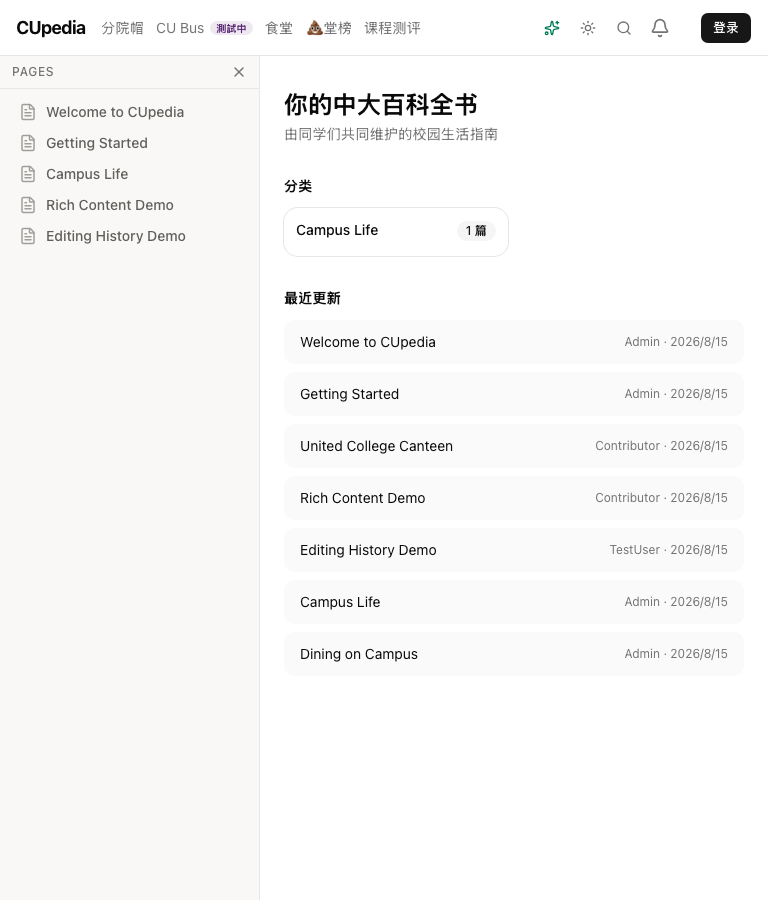
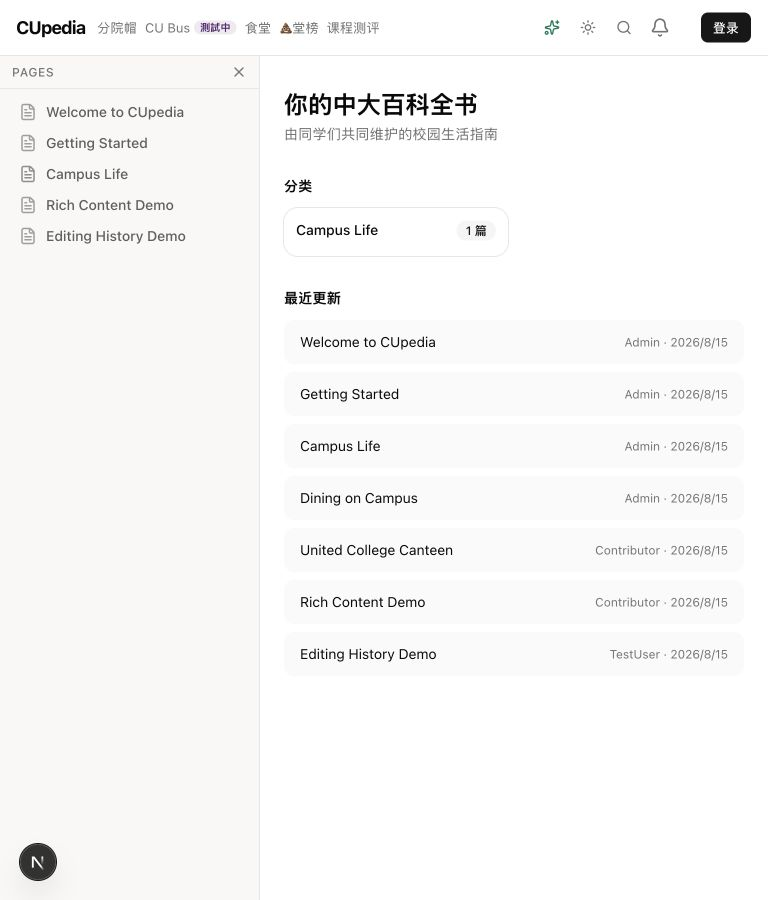
fix: refine Wiki navigation visual hierarchy

diff --git a/src/components/layout/wiki-sidebar.tsx b/src/components/layout/wiki-sidebar.tsx
@@ -451,7 +451,7 @@ function PageTreeItem({
           focusedEditor && active && "bg-[#eeeceb]",
         )}
         style={{
-          paddingLeft: `${(isMobile ? 2 : 10) + depth * 8}px`,
+          paddingLeft: `${(isMobile ? 2 : 10) + depth * (isMobile ? 12 : 8)}px`,
           paddingRight: "4px",
         }}
       >
@@ -476,26 +476,26 @@ function PageTreeItem({
                 ?.focus({ preventScroll: true });
               onToggle(node.id);
             }}
-            className="relative hidden size-5 shrink-0 items-center justify-center rounded-md text-[#a09e9a] transition-[background-color,transform] group-hover/row:bg-black/[0.045] active:scale-95 focus-visible:outline-none md:flex"
+            className="relative flex size-11 shrink-0 items-center justify-center rounded-md text-[#8f8d89] transition-[background-color,transform] hover:bg-black/[0.045] active:scale-95 focus-visible:outline-none md:size-5"
             aria-label={`${collapsed ? "展开" : "折叠"} ${displayTitle}`}
           >
             <PageIcon
               icon={node.icon}
-              className="group-hover/row:opacity-0 group-focus-visible/tree-item:opacity-0"
+              className="hidden group-hover/row:opacity-0 group-focus-visible/tree-item:opacity-0 md:block"
             />
             {collapsed ? (
               <ChevronRightIcon
                 data-testid="wiki-disclosure-icon"
                 aria-hidden="true"
                 strokeWidth={2.25}
-                className="absolute size-4 text-[#5f5e5a] opacity-0 group-hover/row:opacity-100 group-focus-visible/tree-item:opacity-100"
+                className="size-4 text-[#5f5e5a] md:absolute md:opacity-0 md:group-hover/row:opacity-100 md:group-focus-visible/tree-item:opacity-100"
               />
             ) : (
               <ChevronDownIcon
                 data-testid="wiki-disclosure-icon"
                 aria-hidden="true"
                 strokeWidth={2.25}
-                className="absolute size-4 text-[#5f5e5a] opacity-0 group-hover/row:opacity-100 group-focus-visible/tree-item:opacity-100"
+                className="size-4 text-[#5f5e5a] md:absolute md:opacity-0 md:group-hover/row:opacity-100 md:group-focus-visible/tree-item:opacity-100"
               />
             )}
           </button>
@@ -541,9 +541,10 @@ function PageTreeItem({
               "rounded-md px-2 py-0 text-sm normal-case tracking-normal",
             active &&
               cn(
-                "bg-[#eeeceb] font-semibold text-[#2c2c2b]",
+                "font-semibold text-[#2c2c2b]",
+                !isMobile && "bg-[#eeeceb]",
                 isMobile &&
-                  "dark:bg-[#39273f] dark:text-[#d3a5e4] dark:hover:text-[#d3a5e4]",
+                  "relative bg-[#5b2a73]/[0.08] before:absolute before:top-2 before:bottom-2 before:left-0 before:w-0.5 before:rounded-full before:bg-[#5b2a73] dark:bg-purple-300/10 dark:text-purple-100 dark:before:bg-purple-300 dark:hover:text-purple-100",
               ),
             showFeedback &&
               cn(
@@ -1465,7 +1466,16 @@ export function WikiSidebar({
                       <PlusIcon aria-hidden="true" className="size-4" />
                     </WikiCreateButton>
                   )}
-                  {wikiNavigationView === "wiki-tree" && (
+                  {wikiNavigationView === "product-switcher" ? (
+                    <button
+                      type="button"
+                      onClick={showWikiTree}
+                      className="flex size-11 shrink-0 touch-manipulation items-center justify-center rounded-md text-muted-foreground transition-[background-color,color,transform] hover:bg-[#eeeceb] hover:text-foreground active:scale-95 focus-visible:outline-none focus-visible:ring-3 focus-visible:ring-ring/50 dark:hover:bg-white/10"
+                      aria-label="关闭产品列表"
+                    >
+                      <XIcon aria-hidden="true" className="size-4" />
+                    </button>
+                  ) : (
                     <Drawer.Close
                       ref={mobileCloseRef}
                       className="flex size-11 shrink-0 touch-manipulation items-center justify-center rounded-md text-muted-foreground transition-[background-color,color,transform] hover:bg-[#eeeceb] hover:text-foreground active:scale-95 focus-visible:outline-none focus-visible:ring-3 focus-visible:ring-ring/50 dark:hover:bg-white/10"
@@ -1545,7 +1555,7 @@ export function WikiSidebar({
                   )}
                 </nav>
                 {wikiNavigationView === "wiki-tree" && (
-                  <div className="grid shrink-0 gap-1 border-t px-3 py-2">
+                  <div className="grid shrink-0 gap-1 border-t bg-white/45 px-3 py-2 dark:bg-white/[0.025]">
                     <button
                       type="button"
                       onClick={() => openSurface("search")}
@@ -1584,6 +1594,7 @@ export function WikiSidebar({
                     pendingHref={pendingHref}
                     feedbackHref={feedbackHref}
                     className="flex-1"
+                    variant="wiki"
                   />
                 )}
                 <MobilePageActionsSheet

diff --git a/src/components/layout/navbar.tsx b/src/components/layout/navbar.tsx
@@ -169,7 +169,12 @@ export function Navbar({
         data-testid="global-header"
         className="sticky top-0 z-30 h-[var(--navbar-height)] border-b bg-background/95 backdrop-blur-md supports-backdrop-filter:bg-background/85"
       >
-        <div className="grid h-full grid-cols-[minmax(0,1fr)_auto] items-center pt-[var(--safe-area-top)] pr-[calc(var(--safe-area-right)+0.5rem)] pl-[calc(var(--safe-area-left)+0.5rem)] md:flex md:gap-4 md:pr-[calc(var(--safe-area-right)+1rem)] md:pl-[calc(var(--safe-area-left)+1rem)]">
+        <div
+          className={cn(
+            "grid h-full grid-cols-[minmax(0,1fr)_auto] items-center pt-[var(--safe-area-top)] pr-[calc(var(--safe-area-right)+0.5rem)] pl-[calc(var(--safe-area-left)+0.5rem)] md:flex md:gap-4 md:pr-[calc(var(--safe-area-right)+1rem)] md:pl-[calc(var(--safe-area-left)+1rem)]",
+            wikiVariant && "md:gap-3 lg:gap-4",
+          )}
+        >
           <div className="flex min-w-0 items-center md:shrink-0">
             {leading}
             {wikiVariant ? (
@@ -199,7 +204,10 @@ export function Navbar({
           </div>
           <nav
             aria-label="产品导航"
-            className="hidden min-w-0 flex-1 items-center gap-3 md:flex"
+            className={cn(
+              "hidden min-w-0 flex-1 items-center gap-3 md:flex",
+              wikiVariant && "md:gap-2 lg:gap-3",
+            )}
           >
             {DESKTOP_PRODUCT_NAVIGATION.map((item) => (
               <Link
@@ -210,7 +218,11 @@ export function Navbar({
                     ? `${item.desktopLabel ?? item.label} · ${item.status}`
                     : undefined
                 }
-                className="flex min-h-8 shrink-0 touch-manipulation items-center gap-1.5 rounded-md text-sm text-muted-foreground transition-[background-color,color,transform] hover:text-foreground active:scale-[0.98] active:bg-accent active:text-foreground focus-visible:outline-none focus-visible:ring-3 focus-visible:ring-ring/50 motion-reduce:transition-none"
+                className={cn(
+                  "flex min-h-8 shrink-0 touch-manipulation items-center gap-1.5 rounded-md text-sm text-muted-foreground transition-[background-color,color,transform] hover:text-foreground active:scale-[0.98] active:bg-accent active:text-foreground focus-visible:outline-none focus-visible:ring-3 focus-visible:ring-ring/50 motion-reduce:transition-none",
+                  wikiVariant &&
+                    "md:gap-1 md:text-[13px] lg:gap-1.5 lg:text-sm",
+                )}
               >
                 <span aria-hidden={item.status ? "true" : undefined}>
                   {item.desktopLabel ?? item.label}

diff --git a/src/components/layout/product-navigation-links.tsx b/src/components/layout/product-navigation-links.tsx
@@ -17,6 +17,7 @@ export function ProductNavigationLinks({
   pendingHref = null,
   feedbackHref = null,
   className,
+  variant = "default",
 }: {
   pathname: string;
   onClick?: (event: MouseEvent<HTMLAnchorElement>, href: string) => void;
@@ -24,14 +25,17 @@ export function ProductNavigationLinks({
   pendingHref?: string | null;
   feedbackHref?: string | null;
   className?: string;
+  variant?: "default" | "wiki";
 }) {
   const activeProductId = getActiveProductNavigationId(pathname);
+  const wikiVariant = variant === "wiki";
 
   return (
     <nav
       aria-label="CUpedia 产品"
       className={cn(
         "min-h-0 touch-pan-y overflow-y-auto overscroll-contain px-4 py-3",
+        wikiVariant && "px-2 py-2",
         className,
       )}
     >
@@ -57,9 +61,15 @@ export function ProductNavigationLinks({
             onNavigate={onNavigate}
             className={cn(
               "flex min-h-14 touch-manipulation items-center justify-between gap-4 rounded-xl px-3 text-xl font-semibold tracking-[-0.025em] transition-[background-color,color,transform] active:scale-[0.98] focus-visible:outline-none focus-visible:ring-3 focus-visible:ring-ring/50 motion-reduce:transition-none",
-              active
+              wikiVariant &&
+                "relative min-h-12 gap-3 rounded-md px-3 text-[15px] font-medium tracking-normal",
+              active && !wikiVariant
                 ? "bg-[#5b2a73]/10 text-[#5b2a73] dark:bg-purple-300/15 dark:text-purple-200"
-                : "text-foreground hover:bg-accent",
+                : !wikiVariant && "text-foreground hover:bg-accent",
+              active && wikiVariant
+                ? "bg-[#5b2a73]/[0.08] font-semibold text-[#2c2c2b] before:absolute before:top-2 before:bottom-2 before:left-0 before:w-0.5 before:rounded-full before:bg-[#5b2a73] dark:bg-purple-300/10 dark:text-purple-100 dark:before:bg-purple-300"
+                : wikiVariant &&
+                    "text-[#5f5e5a] hover:bg-[#eeeceb] hover:text-[#2c2c2b] dark:text-[#c7c7cc] dark:hover:bg-white/10 dark:hover:text-white",
               pending && "pointer-events-none opacity-70",
             )}
           >

diff --git a/e2e/wiki-navigation.spec.ts b/e2e/wiki-navigation.spec.ts
@@ -193,6 +193,11 @@ test.describe("#652 Wiki navigation surface", () => {
     await expect(
       tree.getByRole("treeitem", { name: "Campus Life" }),
     ).toHaveAttribute("aria-expanded", "true");
+    const disclosureBox = await tree
+      .getByRole("button", { name: "折叠 Campus Life", exact: true })
+      .boundingBox();
+    expect(disclosureBox?.width).toBeGreaterThanOrEqual(44);
+    expect(disclosureBox?.height).toBeGreaterThanOrEqual(44);
 
     const treeScroller = drawer.getByRole("navigation", {
       name: "Wiki 页面树",
@@ -230,6 +235,16 @@ test.describe("#652 Wiki navigation surface", () => {
     await expect(
       tree.getByRole("treeitem", { name: "Campus Life" }),
     ).toHaveAttribute("aria-expanded", "true");
+    await expect(
+      drawer.getByRole("button", { name: "探索其他功能" }),
+    ).toBeFocused();
+
+    await drawer.getByRole("button", { name: "探索其他功能" }).click();
+    await page
+      .getByRole("dialog", { name: "探索 CUpedia" })
+      .getByRole("button", { name: "关闭产品列表" })
+      .click();
+    await expect(page.getByRole("dialog", { name: "Wiki 目录" })).toBeVisible();
     await expect(
       drawer.getByRole("button", { name: "探索其他功能" }),
     ).toBeFocused();

diff --git a/e2e/homepage.spec.ts b/e2e/homepage.spec.ts
@@ -57,6 +57,9 @@ test.describe("#97 wiki home brand & tagline", () => {
         .getByTestId("global-header")
         .getByRole("link", { name: BRAND, exact: true }),
     ).toHaveCount(1);
+    await expect(
+      page.getByText(BRAND, { exact: true }).filter({ visible: true }),
+    ).toHaveCount(1);
   });
 
   test("wiki home and landing page share the same tagline", async ({
